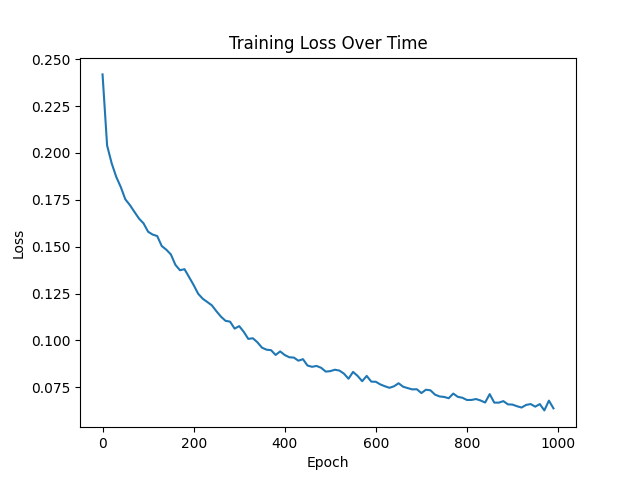
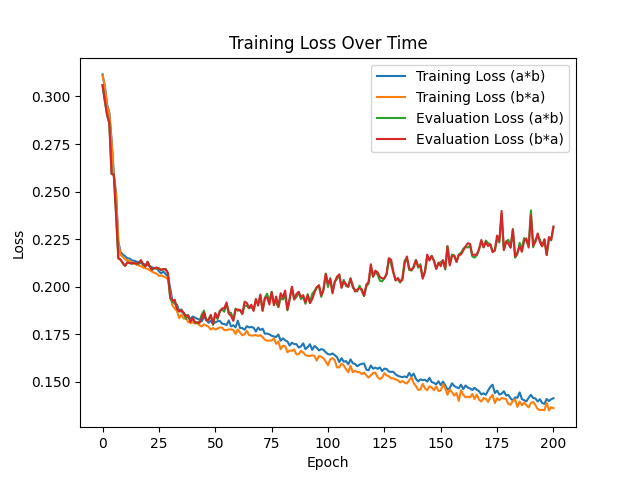
Combined training and test loops to plot the evolution of the test loss. Updated plot.py file to display these losses

diff --git a/Assignment 1/main.py b/Assignment 1/main.py
@@ -104,14 +104,17 @@ rnn = RNN(input_size, hidden_size, output_size, num_layers, dropout)
 rnn = rnn.to(device)  # Move the model to the GPU if available
 criterion = nn.MSELoss()
 optimizer = optim.SGD(rnn.parameters(), lr=learning_rate, momentum=momentum)
-rnn.train() # Switch to training mode (enables dropout)
 
-# Train the RNN model
 
-# Initialize lists to store the training loss at each epoch
+
+# Initialize lists to store the training and evaluation loss at each epoch
 tLosses = [] 
-tSwapped_losses = []
-for epoch in range(num_epochs):
+eLosses = []
+
+for epoch in range(num_epochs+1):
+
+    # Train the RNN model
+    rnn.train() # Switch to training mode (enables dropout)
 
     #Initialize the total loss for the epoch
     total_loss = 0
@@ -132,28 +135,18 @@ for epoch in range(num_epochs):
         swapped_output, swapped_loss = train(rnn, swapped_input_tensor, target_tensor, criterion, optimizer)
         total_swapped_loss += swapped_loss
     
-    # Store the average loss for the epoch
-    tLosses.append(total_loss / len(train_set))
-    tSwapped_losses.append(total_swapped_loss / len(train_set))
+    # Store the average training loss for the epoch
+    tLosses.append([total_loss / len(train_set),total_swapped_loss / len(train_set)])
 
-    #Print the average loss every 10 epochs \
+    #Print the average loss every 10 epochs 
     if epoch % 10 == 0:
-        print(f"Epoch {epoch}: loss = {total_loss / len(train_set):.4e}, swapped loss = {total_swapped_loss / len(train_set):.4e}")
-        
+        print(f"\033[1mEpoch {epoch}\033[0m:\n\tTrain loss = {total_loss / len(train_set):.4f}\n\tSwapped train loss = {total_swapped_loss / len(train_set):.4f}")
 
 
+    # Evaluate the RNN model on the test set
+    rnn.eval() # Switch to evaluation mode
 
-# Evaluate the RNN model on the test set
-
-
-# Initialize lists to store the evaluation loss at each epoch
-eLosses = []
-eSwapped_losses = []
-
-rnn.eval() # Switch to evaluation mode
-for epoch in range(num_epochs):
-
-    #Initialize the total loss for the epoch
+    #Reset the total loss for the evaluation during current epoch
     total_loss = 0
     total_swapped_loss = 0
 
@@ -186,21 +179,16 @@ for epoch in range(num_epochs):
             output_sequence = ''.join(str(bit) for bit in output_sequence)
             swapped_output_sequence = ''.join(str(bit) for bit in swapped_output_sequence)
 
-            # Print out the test data and the models predicted output
-            #print(f"Test data: {a}, {b}")
-            #print(f"Expected output: {c}")
-            #print(f"Resulting output: {output_sequence}")
-        
-    # Store the average loss for the epoch
-    eLosses.append(total_loss / len(test_set))
-    eSwapped_losses.append(total_swapped_loss / len(test_set))
+    # Store the average training loss for the epoch
+    eLosses.append([total_loss / len(test_set),total_swapped_loss / len(test_set)])
 
+    #Print the average loss every 10 epochs 
+    if epoch % 10 == 0:
+        print(f"\tTest loss = {total_loss / len(test_set):.4f}\n\tSwapped test loss = {total_swapped_loss / len(test_set):.4f}")
 
-# Print the average loss on the test set
-print(f"Test loss: {total_loss / len(test_set):.4f}\nswapped test loss = {total_swapped_loss / len(test_set):.4f}")
 
 # Plot the loss over time after training & evaluation
-plot_loss(num_epochs, tLosses, tSwapped_losses, eLosses, eSwapped_losses)
+plot_loss(num_epochs+1, tLosses, eLosses)
 
 
 #Save the trained model

diff --git a/Assignment 1/plot.py b/Assignment 1/plot.py
@@ -1,14 +1,18 @@
 # Import the necessary libraries
 import matplotlib.pyplot as plt
+import numpy as np
 
 # This function assumes that 'train' returns the loss at each epoch
-def plot_loss(epochs, tLosses, tSwapped_losses, eLosses, eSwapped_losses):
+def plot_loss(epochs, tLosses, eLosses):
 
+    # Convert the lists to numpy arrays
+    tLosses = np.array(tLosses)
+    eLosses = np.array(eLosses)
     # Generate the plot
-    plt.plot(range(epochs), tLosses, label='Training Loss (a*b)')
-    plt.plot(range(epochs), tSwapped_losses, label='Training Loss (b*a)')
-    #plt.plot(range(epochs), eLosses, label='Evaluation Loss (a*b)')
-    #plt.plot(range(epochs), eSwapped_losses, label='Evaluation Loss (b*a)')
+    plt.plot(range(epochs), tLosses[:,0], label='Training Loss (a*b)')
+    plt.plot(range(epochs), tLosses[:,1], label='Training Loss (b*a)')
+    plt.plot(range(epochs), eLosses[:,0], label='Evaluation Loss (a*b)')
+    plt.plot(range(epochs), eLosses[:,1], label='Evaluation Loss (b*a)')
     plt.xlabel('Epoch')
     plt.ylabel('Loss')
     plt.title('Training Loss Over Time')
